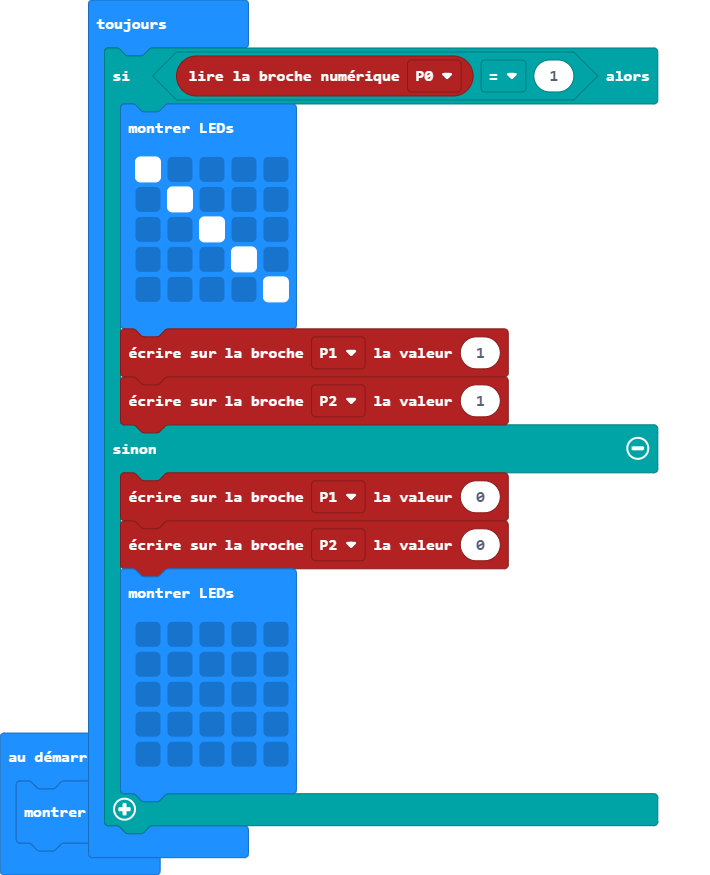
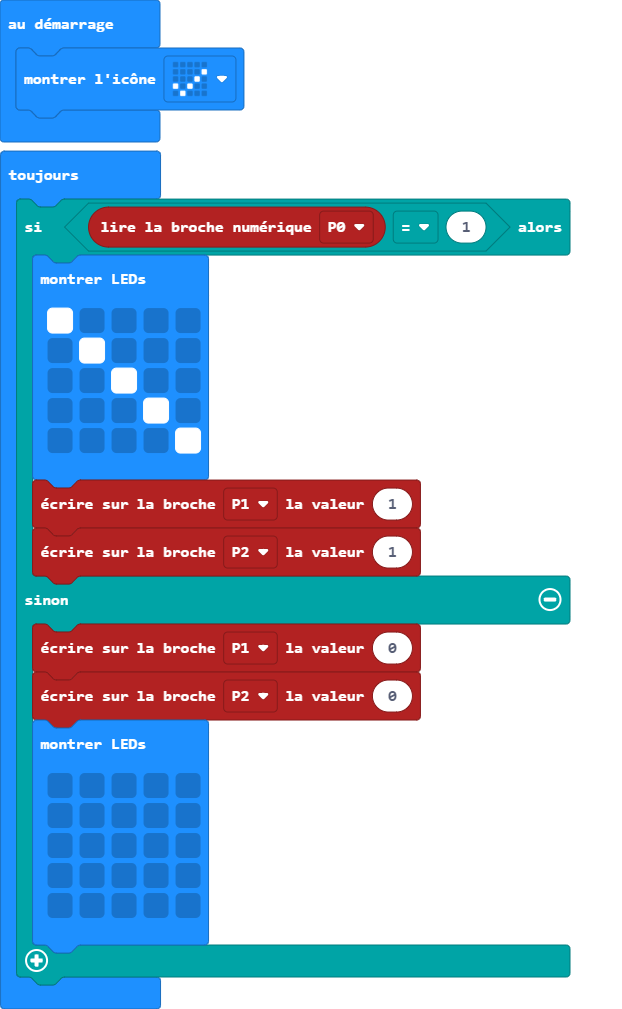
Mise à jour main.blocks, main.ts

diff --git a/main.ts b/main.ts
@@ -1,4 +1,4 @@
-basic.showIcon(IconNames.Heart)
+basic.showIcon(IconNames.Yes)
 basic.forever(function () {
     if (pins.digitalReadPin(DigitalPin.P0) == 1) {
         basic.showLeds(`
